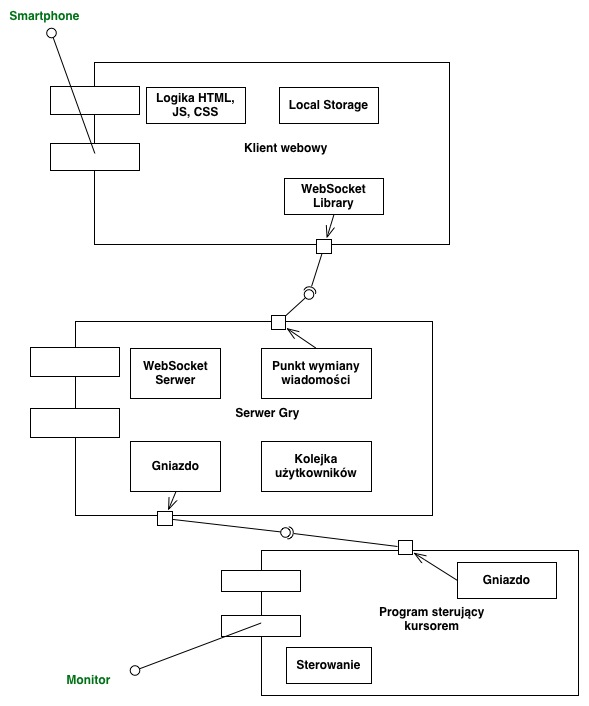
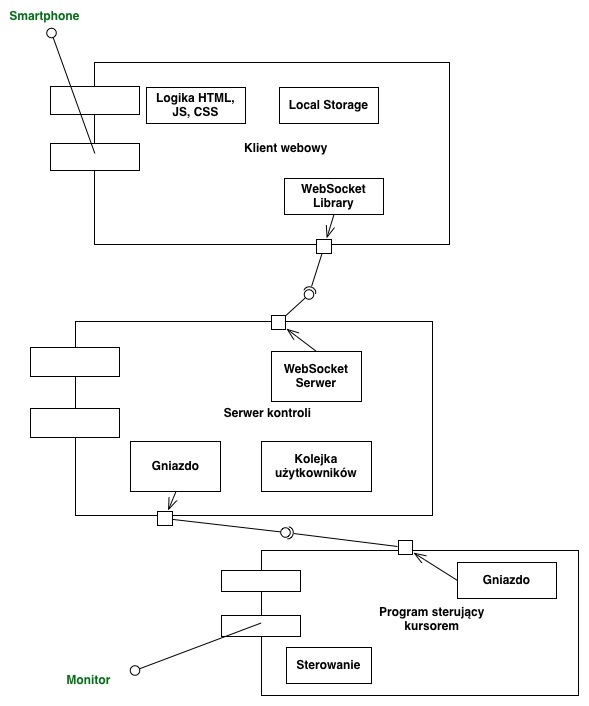
description and fixes in components diagram

Changed region(s): [[0.3667, 0.4674, 0.6418, 0.5921], [0.2445, 0.4986, 0.3667, 0.5609]]

diff --git a/partials/architecture.tex b/partials/architecture.tex
@@ -30,6 +30,10 @@ System pilota do sterowania zdalnym monitorem złożony jest z trzech części:
 
 Diagram komponentów przedstawiony jest w załączniku ~\ref{app:control_comp_diagram}.
 
+\par
+
+Pierwszy komponent poczynając od góry diagramu, prezentuje klienta webowego. Użytkownik otwierając w przeglądarce internetowej adres gry pong pobierze z serwera niezbędne części do wyświetlenia strony: HTML, CSS, JS. Następnie za pomocą websocketów, przeglądarka skomunikuje się z serwerem kontroli. Serwer kontroli jest odpowiedzialny za kolejkowanie użytkowników, oraz przekazywanie odpowiednio sformatowanych komunikatów poprzez gniazdo do programu sterującego kursorem na odpowiednim ekranie.
+
 \subsection{Gra PONG wyświetlana na zdalnym monitorze}
 
 System gry PONG dla dwóch graczy z możliwością kolejkowania chętnych złożony jest z trzech części:
@@ -40,8 +44,10 @@ System gry PONG dla dwóch graczy z możliwością kolejkowania chętnych złoż
   \item \textbf{Klient wyświetlający grę} - aplikacja stworzona jako strona internetowa uruchamiana w przeglądarce na ekranie LED. Wyświetla planszę gry w trakcie jej trwania, lub komunikaty zachęcające do podjęcia rozgrywki w trakcie, gdy nie trwa rozgrywka. Na ekranie można wyświetlać potencjalne reklamy.
 \end{enumerate}
 
-\subsubsection{Diagram komponentów}
+u\subsubsection{Diagram komponentów}
 
 Diagram komponentów przedstawiony jest w załączniku ~\ref{app:pong_comp_diagram}.
 
+\par
 
+Klient webowy podobnie jak dla diagramu komponentów jest odpowiedzialny za pobranie niezbędnej logiki. Na tym diagramie zaprezentowano komponenty dla rozproszonej wersji aplikacji. Klient webowy komunikuje się z HA Proxy (ang. \emph{Load Balancer}), serwerem odpowiadającym za rozładowanie ruchu. Zadaniem HA Proxy jest wybranie węzła pośredniczącego (ang. \emph{Proxy Server}) z którym będzie się odbywała bezpośrednia komunikacja. Serwer Rabbit MQ to system wiadomości, który pośredniczy i zarządza komunikacją pomiędzy serwerem gry a węzłami. Serwer gry zarządza całą logiką, przetwarza komunikaty wysyłane z klienta webowego, jak i z klienta uruchamiającego grę. 
